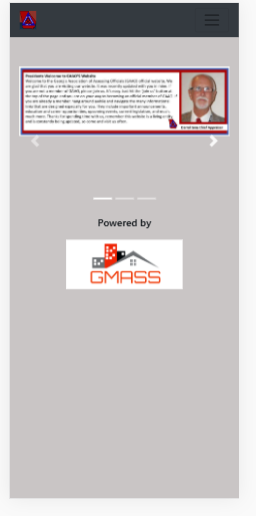
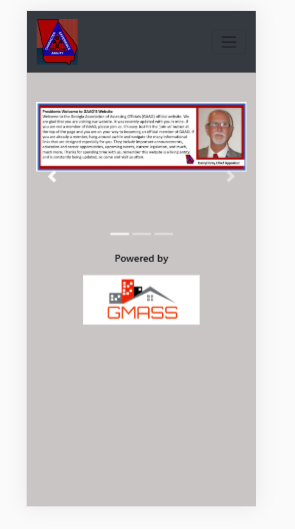
changes:

diff --git a/index.html b/index.html
@@ -18,9 +18,9 @@
 
 <body>
     <div class="bannerContainer">
-        <nav class="navbar navbar-light navbar-expand-lg bg-dark" role="navigation">
+        <nav class="navbar navbar-light navbar-expand-lg" role="navigation" style="background-color: #e74c3c;">
             <a class="navbar-brand text-white" href="index.html">
-                <img src="./Assets/gaao.jpg" width="auto" height="30" alt="GAAO Logo">
+                <img src="./assets/gaao.jpg" width="auto" height="50" alt="GAAO Logo">
 
             </a>
             <button class="navbar-toggler collapsed" type="button" data-toggle="collapse"
@@ -32,24 +32,24 @@
             <div class="collapse navbar-collapse justify-content-between" id="navbarTogglerDemo02">
                 <ul class="navbar-nav mr-auto mt-2 mt-lg-0">
                     <li class="nav-item active">
-                        <a class="nav-item nav-link active text-primary" href="index">Home
+                        <a class="nav-item nav-link active text-white" href="index">Home
                             <span class="sr-only">(current)</span>
                         </a>
                     </li>
                     <li class="nav-item">
-                        <a class="nav-item nav-link text-primary" href="about">Membership</a>
+                        <a class="nav-item nav-link text-white" href="about">Membership</a>
                     </li>
                     <li class="nav-item">
-                        <a class="nav-item nav-link text-primary" href="services">Education</a>
+                        <a class="nav-item nav-link text-white" href="services">Education</a>
                     </li>
                     <li class="nav-item">
-                        <a class="nav-item nav-link text-primary" href="contact">Taxpayer Info</a>
+                        <a class="nav-item nav-link text-white" href="contact">Taxpayer Info</a>
                     </li>
                     <li class="nav-item">
-                        <a class="nav-item nav-link text-primary" href="datacloud">Upcoming Events</a>
+                        <a class="nav-item nav-link text-white" href="datacloud">Upcoming Events</a>
                     </li>
                     <li class="nav-item">
-                        <a class="nav-item nav-link text-primary" href="datacloud">About Us</a>
+                        <a class="nav-item nav-link text-white" href="datacloud">About Us</a>
                     </li>
                 </ul>
                 <div class="navbar-nav ml-auto">

diff --git a/global.css b/global.css
@@ -6,6 +6,11 @@ body{
     background-image: none;
     background-size: cover;
 }
+.nav a {
+    display: inline-block;
+    border: 1px solid red;
+    vertical-align: middle;
+ }
 .bannerContainer {
     position:relative;    
 }
